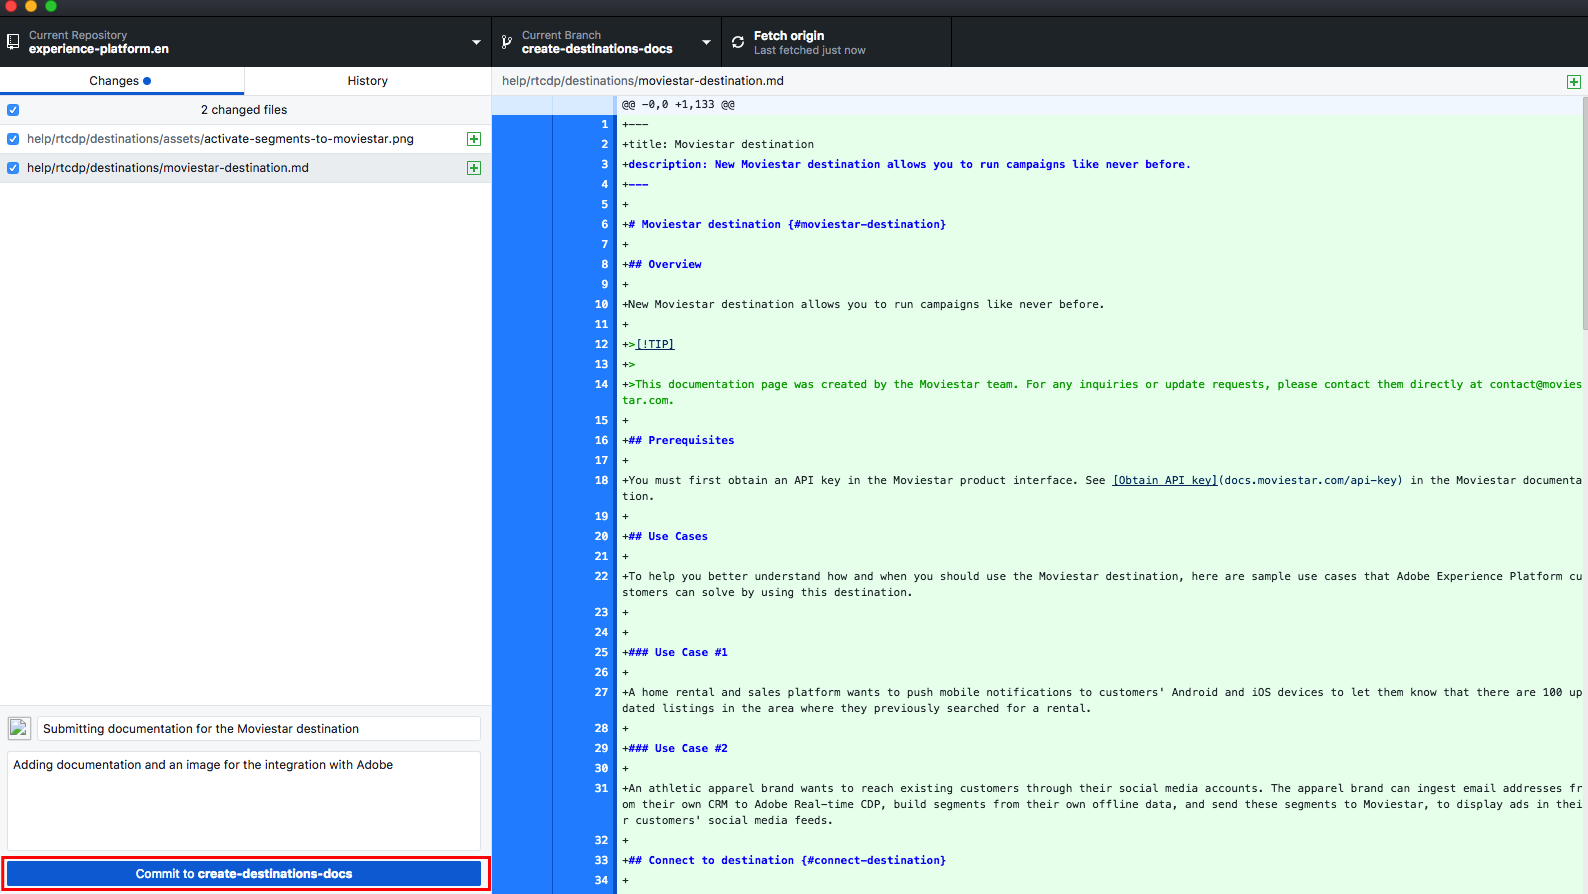
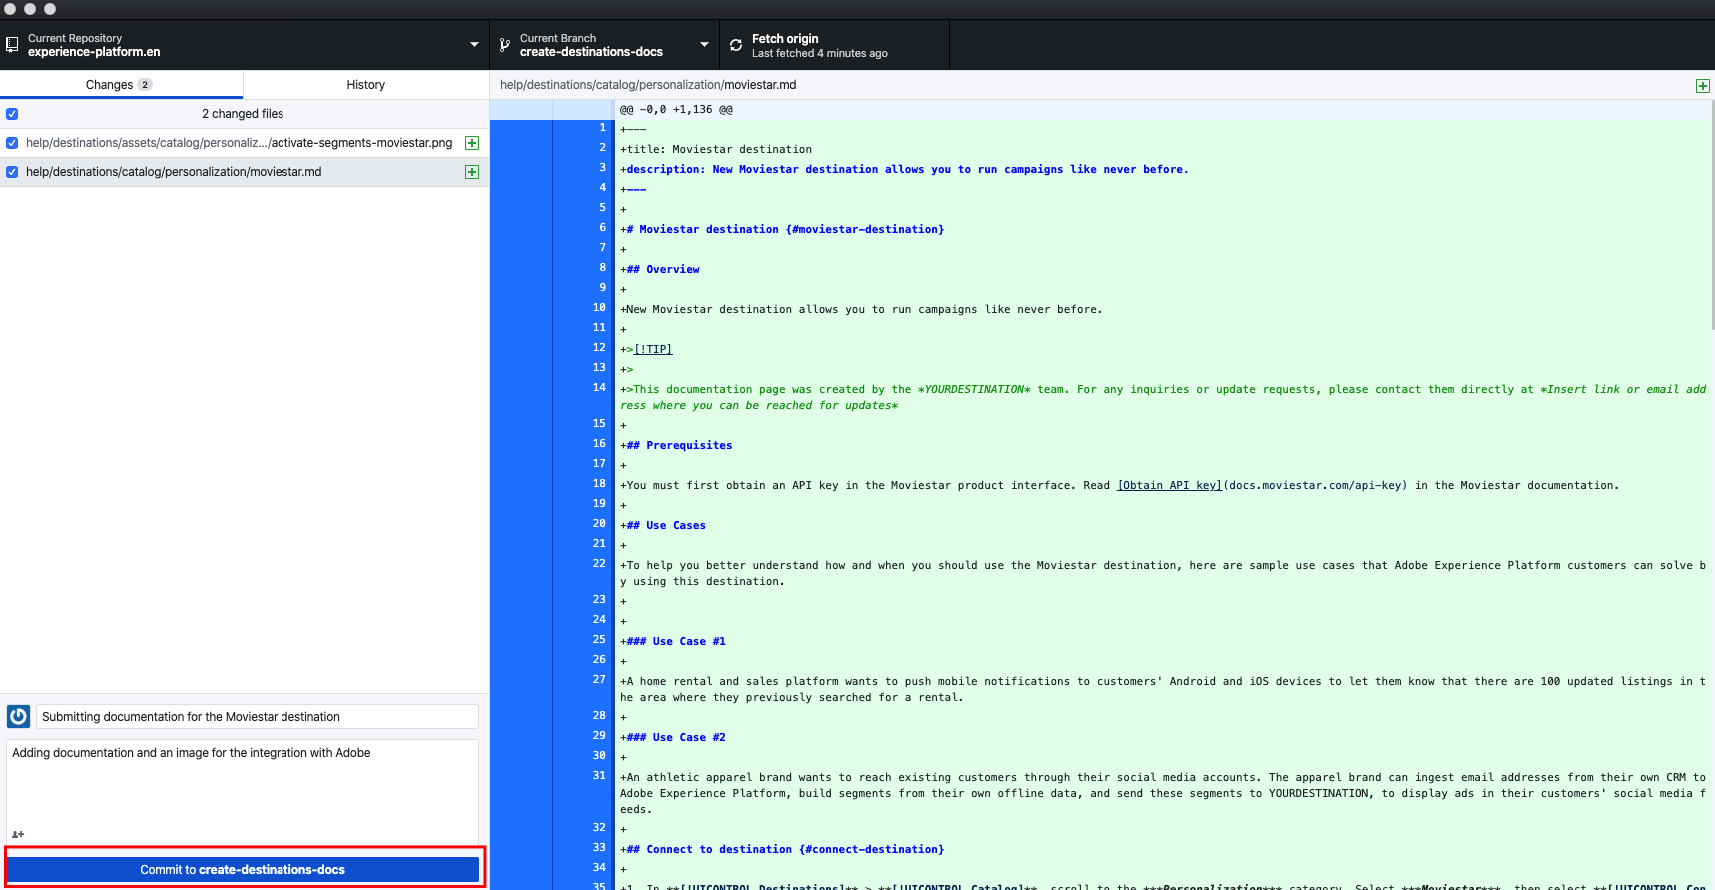
New Gifs and new images for the updated navigation structure

diff --git a/help/docs-framework/work-in-local-environment.md b/help/docs-framework/work-in-local-environment.md
@@ -34,7 +34,7 @@ The instructions on this page show you how to use a text editor to work in your 
 1. Your documentation page is based on the [self-service destination template](/help/docs-framework/self-service-template.md). Download the [destination template](assets/yourdestination-template.md.zip). Unzip it and extract the file `yourdestination-template.md` to the directory mentioned in step 4 above.  Rename the file `YOURDESTINATION.md`, where YOURDESTINATION is the name of your destination in Adobe Experience Platform. For example, if your company is called Moviestar, you would name your file `moviestar.md`.
 2. Open your new file in your [text editor of choice](https://docs.adobe.com/content/help/en/contributor/contributor-guide/setup/install-tools.html#understand-markdown-editors).
 3. Edit the template with relevant information for your destination. Follow the instructions in the template. 
-4.  For any screenshots or images that you plan on adding to your documentation, go to `GitHub/experience-platform.en/help/destinations/assets/catalog/[...]`, where `[...]` is the desired category for your destination. For example, if you are adding a personalization destination to Experience Platform, select the `personalization` folder. Create a new folder for your destination and save your images here. You can link to them from the page you are authoring. See [instructions how to link to images](https://docs.adobe.com/content/help/en/contributor/contributor-guide/writing-essentials/linking.html#link-to-images).
+4.  For any screenshots or images that you plan on adding to your documentation, go to `GitHub/experience-platform.en/help/destinations/assets/catalog/[...]`, where `[...]` is the desired category for your destination. For example, if you are adding a personalization destination to Experience Platform, select the `personalization` folder. Create a new folder for your destination and save your images here. You must link to them from the page you are authoring. See [instructions how to link to images](https://docs.adobe.com/content/help/en/contributor/contributor-guide/writing-essentials/linking.html#link-to-images).
 5.  When you are ready, save the file you are working on.
 
 ## Submit your documentation for review {#submit-review}

diff --git a/help/docs-framework/documentation-instructions.md b/help/docs-framework/documentation-instructions.md
@@ -32,7 +32,7 @@ This documentation section includes:
 
 To create documentation for your destination according to the instructions in this article, the following items are necessary:
 
-* **A GitHub account**. Sign up for [GitHub](https://github.com/) if don't have an account yet.
+* **A GitHub account**. Sign up for [GitHub](https://github.com/) if you don't have an account yet.
 * **GitHub Desktop**. If you select to [create the documentation in your local environment](/help/docs-framework/work-in-local-environment.md), you must use [GitHub Desktop](https://desktop.github.com/).
 * Your integration with Adobe must be in a testing phase with your destination deployed in a staging environment in Adobe Experience Platform.
 
